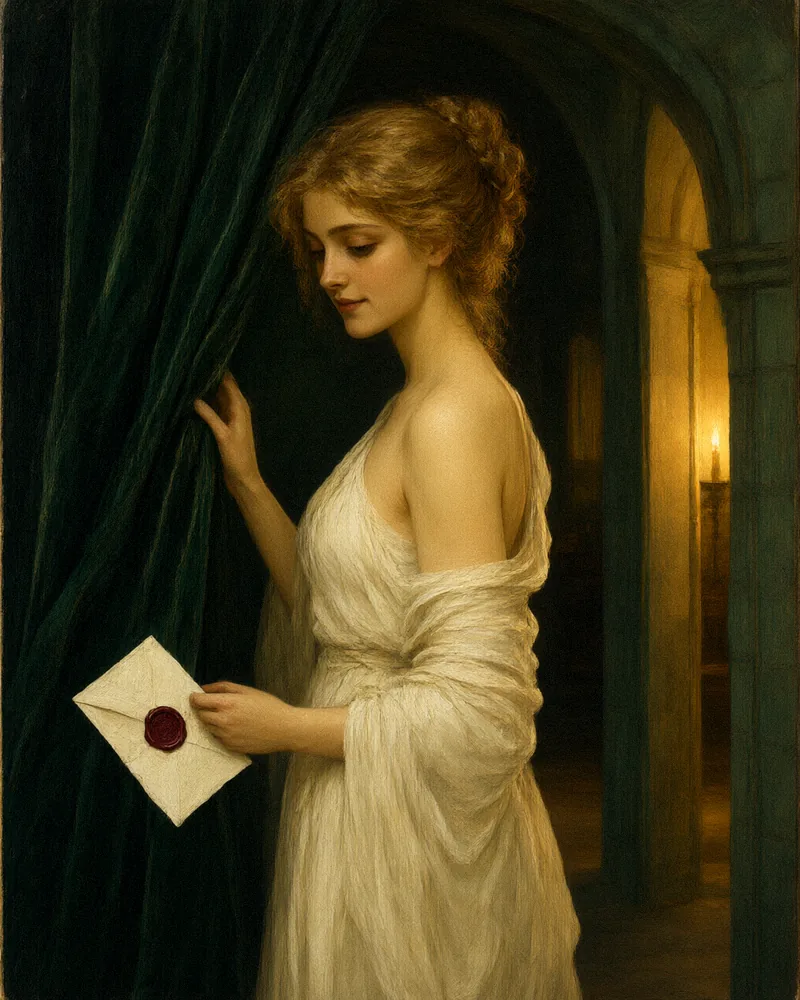
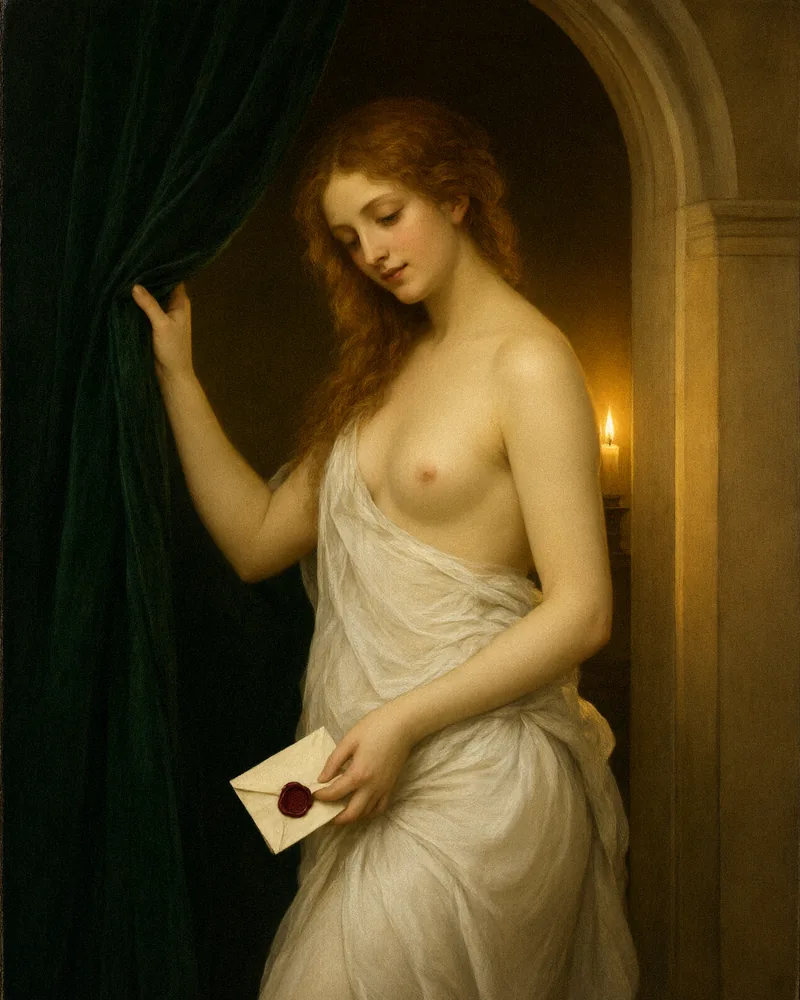
v6 - иллюстрация с письмом

diff --git a/v6/work/prompts.md b/v6/work/prompts.md
@@ -226,3 +226,23 @@ negative: `text, frame, photo, bright background, multiple objects`
 
 ## M1 og-cover (не генерировать)
 Кроп P1b (hero-canvas-2) по центру 1200x630 + тонировка --velvet-deep по краям; текст не накладывается.
+### P11 v3 — invite-figure (финал 2026-09-27, замена v1)
+
+Задача ревизии: сохранить сюжет/свет/тон v1, но уйти от «современной» стилизации к
+старинной классической живописи: образ эпохи Возрождения, полуобнажённая чувственная
+натура, натуралистичная рука с письмом. Якоря стиля: венецианская школа (Тициан,
+Джорджоне), сфумато, золотое свечное chiaroscuro, глазуры, кракелюр старого лака.
+Композиция как в v1: арочный проём, изумрудный бархатный занавес отведён рукой,
+свеча в нише, шёлковая драпировка спущена к талии, письмо с сургучной печатью в руке
+у талии (щипок большим и указательным — анатомически верный хват).
+Фон: камень арки тёплый золотистый справа со свечой, верх и левый край в глубокой
+изумрудной тени (#0a2417). negative_prompt: deformed hands, extra/missing fingers,
+broken wrist, unnatural grip + фото/3d/текст/рамки.
+Генерация: qwen/qwen-image-3 t2i 1280x1600, 3 кандидата, отбор по зумам руки и лица.
+Уроки: (1) i2i-затемнение фона через API недоступно — selectel 503 all_routes_failed,
+routerai (qwen/gemini) блокирует обнажённый референс модерацией Alibaba/Google;
+(2) попиксельное затемнение numpy даёт швы/заплатки на живописном фоне — не чинить
+фон масками, а перегенерировать с явным тёмным фоном в промпте; (3) рука с письмом —
+главный брак генераций: отбирать по зуму хвата (щипок/захват пальцами), «mitt» и
+«claw» отбраковывать. Исходник: work/img-raw/invite-v3-3.png (v1 сохранён как
+invite-figure-v1.png); постобработка штатная post.py (800x1000, grain+vignette).

diff --git a/v6/work/structure-texts.md b/v6/work/structure-texts.md
@@ -199,9 +199,13 @@ H2: Дверь открыта
 Футер: волосяная линия + `Лаборатория Феминности · москва · mmxxvi` +
 ссылки: cats.jungway.ru · telegram (заглушка #).
 
-Полотно секции: `paint/invite-figure.webp` — женщина у высокой арочной двери отводит
+Полотно секции: `paint/invite-figure.webp` (v3, 2026-09-27) — женщина у высокой арочной двери отводит
 тяжёлый изумрудный занавес; тёплый золотой свет из-за двери на плече и щеке, в другой
-руке сложенное письмо с сургучной печатью.
+руке сложенное письмо с сургучной печатью. Стиль v3: старинная классическая живопись,
+образ эпохи Возрождения (венецианская школа: сфумато, золотое свечное chiaroscuro),
+полуобнажённая чувственная натура, шёлковая драпировка спущена к талии; камень арки
+тёплый золотистый справа со свечой, верх и левый край в изумрудной тени. v1 сохранён
+как work/img-raw/invite-figure-v1.png.
 
 ---
 
